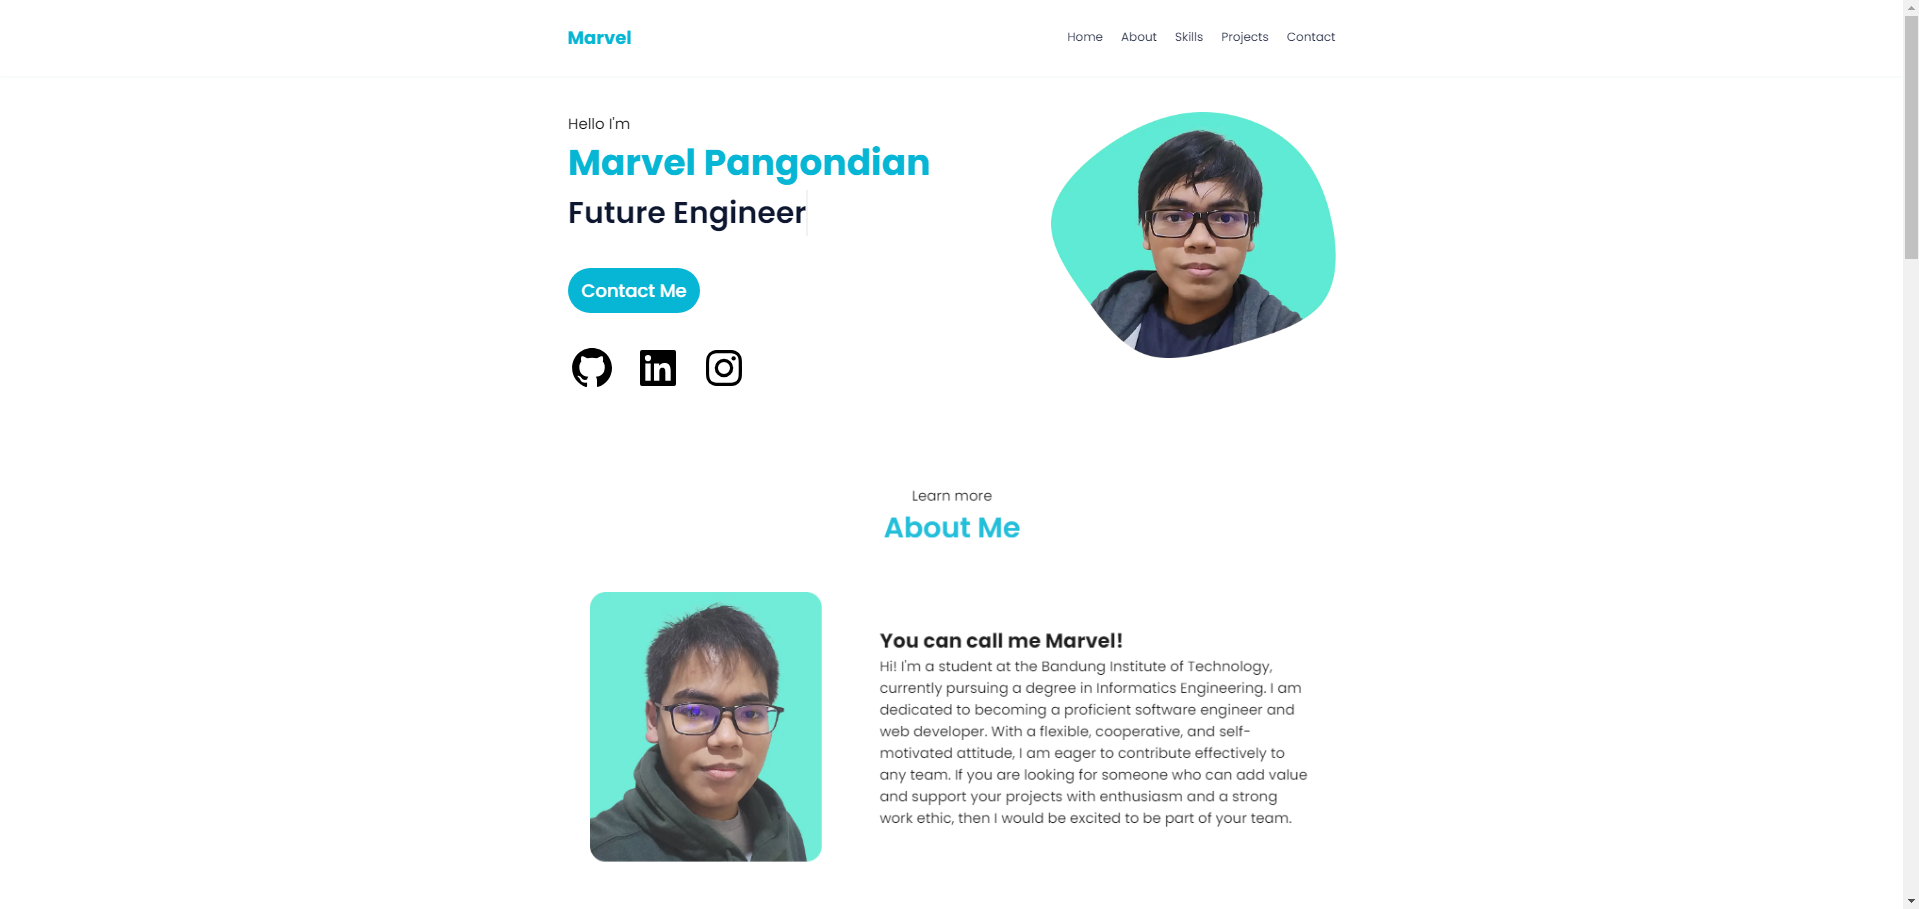
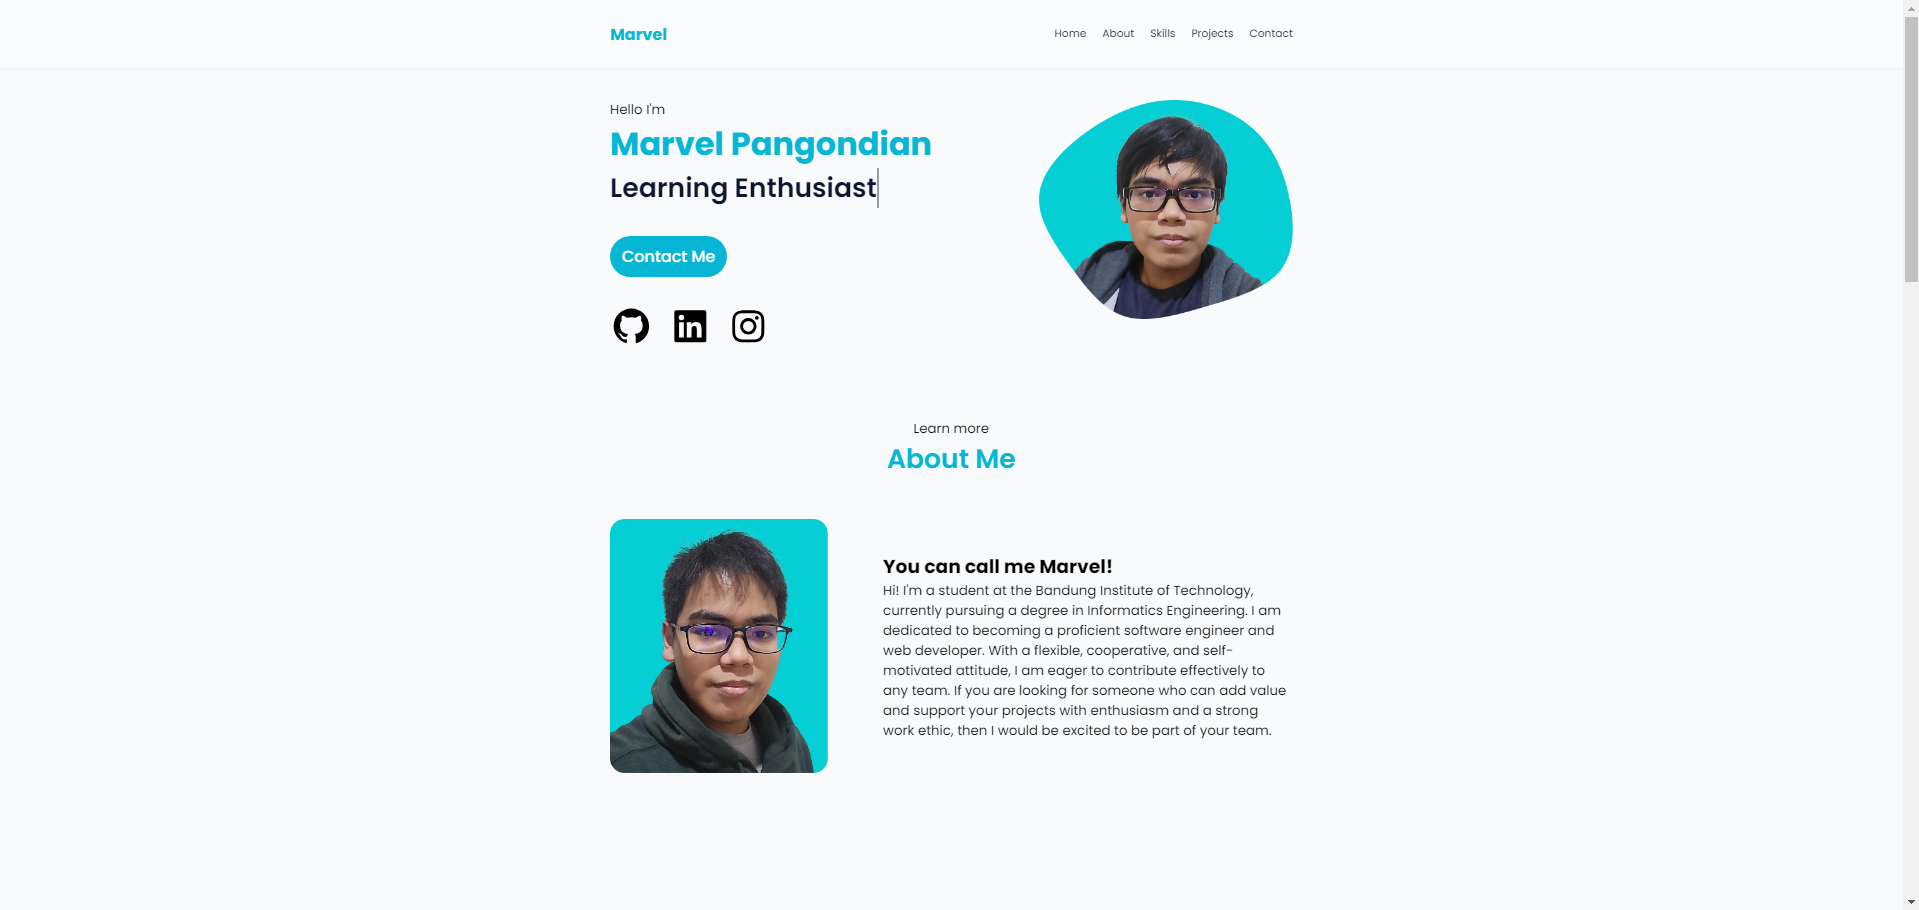
feat: update readme, change background

diff --git a/index.html b/index.html
@@ -63,7 +63,7 @@
   <main style="height: 100%">
     <span class="section__placeholder" id="home"></span>
     <section class="home section container container-flex">
-      <img src="/assets/img/compressed/profile.webp" alt="Creator profile image" class="item-1 home__profile mb-8" />
+      <img src="/assets/img/compressed/profile3.webp" alt="Creator profile image" class="item-1 home__profile mb-8" />
       <div class="section__content">
         <p>Hello I'm</p>
         <h1>Marvel Pangondian</h1>
@@ -107,7 +107,7 @@
       <h2 class="section__title">About Me</h2>
 
       <div class="about__container">
-        <img src="assets/img/compressed/aboutProfile2.webp" alt="About Me svg" class="about__profile mb-base" />
+        <img src="assets/img/compressed/about3.webp" alt="About Me svg" class="about__profile mb-base" />
         <div class="about__content">
           <h3 class="section__subtitle">
             You can call me Marvel!

diff --git a/assets/css/style.css b/assets/css/style.css
@@ -20,6 +20,7 @@
   --color-primary: #06b6d4;
   --color-secondary: #5eead4;
   --color-text: #0d1730;
+  --color-bg : #f8fafc;
 
   /* MISC */
   --padding-header: 0.625em 0;
@@ -75,6 +76,7 @@
 
 html {
   scroll-behavior: smooth;
+  background-color: var(--color-bg);
 }
 
 body {

diff --git a/README.md b/README.md
@@ -34,7 +34,7 @@
 ![Desktop view](./screenshots/Desktop.png)<br><br>
 ![Tablet view](./screenshots/Tablet.png)<br><br>
 ![Phone view](./screenshots/Phone.png)<br><br>
-![Desktop Lighthouse](./screenshots/dekstopLighthouse.png)<br><br>
+![Desktop Lighthouse](./screenshots/desktopLighthouse.png)<br><br>
 ![Mobile Lighthouse](./screenshots/mobileLighthouse.png)
 
 ## Setup
